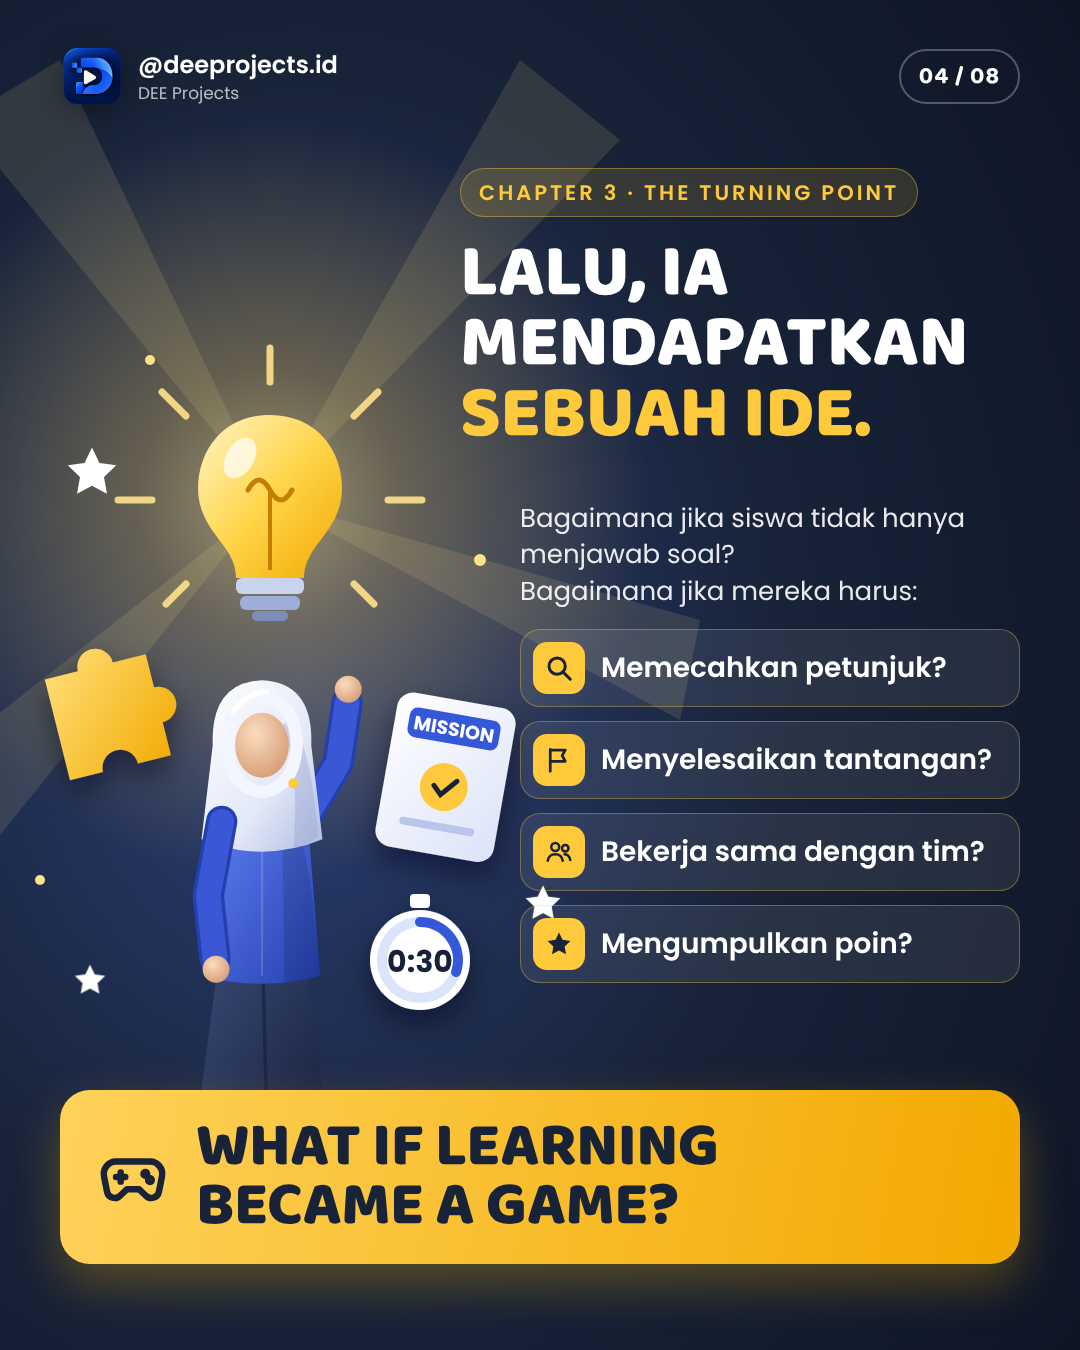
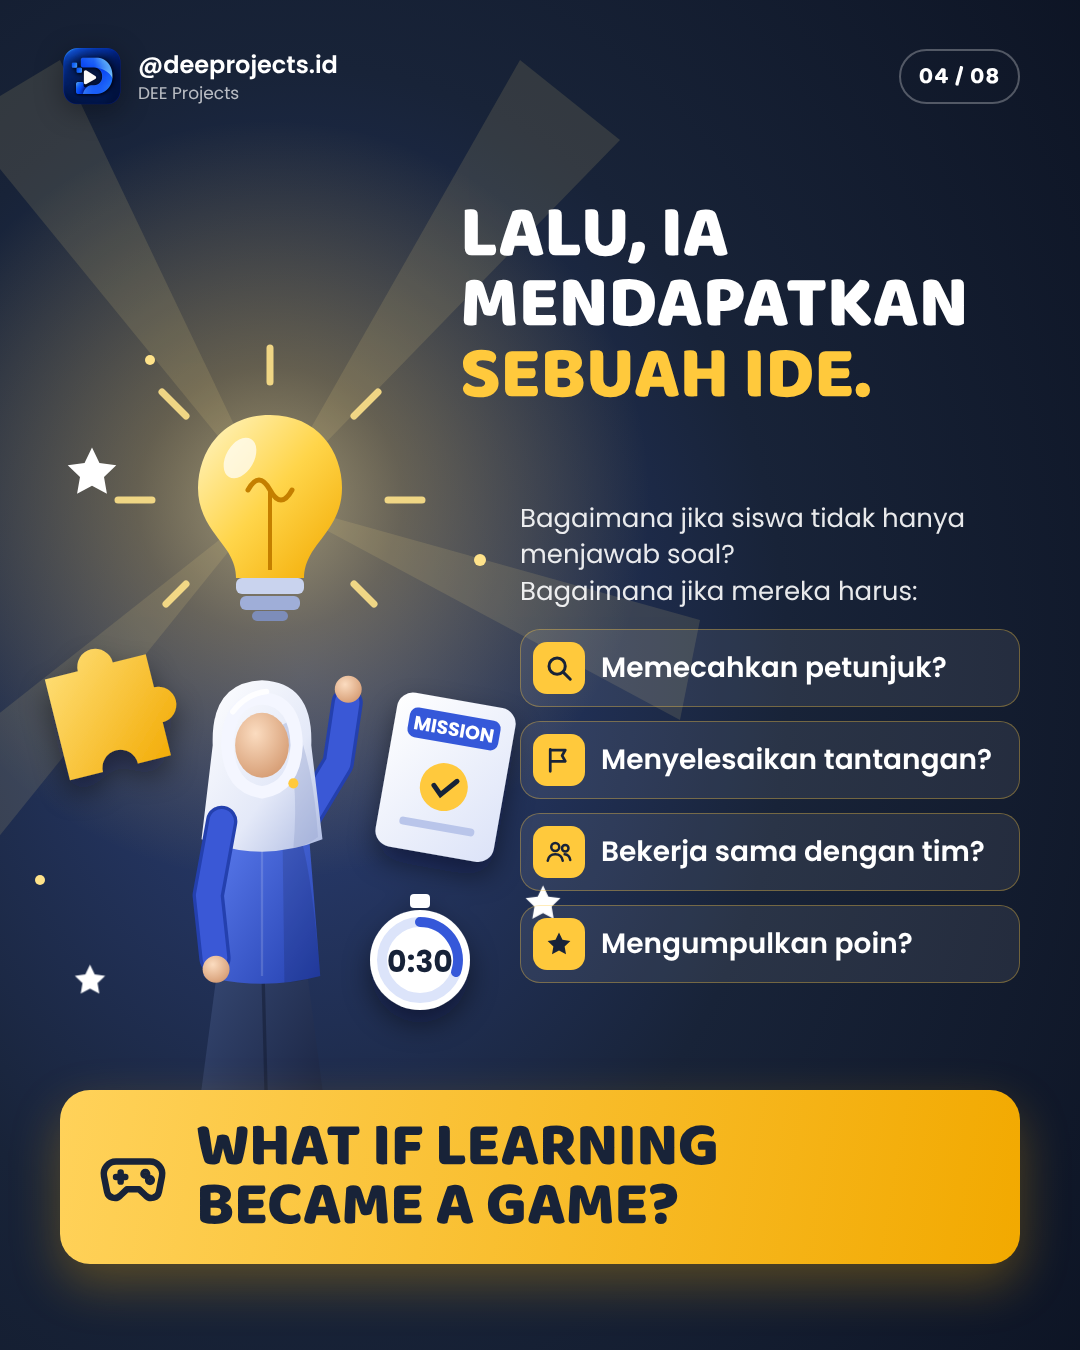
Remove chapter/kicker labels above slide headlines
Claude-Session: https://claude.ai/code/session_01NvhobE7w3mnUz6d6jf2Phj

Changed region(s): [[0.4278, 0.1244, 0.9167, 0.3422]]

diff --git a/content/post-03/carousel.html b/content/post-03/carousel.html
@@ -146,9 +146,8 @@
   </svg>
   <div class="layer">
     <div class="top"><div class="brand"><img src="logo.png"><div>@deeprojects.id<small>DEE Projects</small></div></div><div class="count">01 / 08</div></div>
-    <div style="position:absolute;top:168px;left:60px;right:60px">
-      <div class="kicker">✦ The Lesson That Became an Adventure</div>
-      <h1 style="font-size:92px;line-height:.95;margin-top:28px">HARI ITU, BU GURU<br>PUNYA <span class="y">SEBUAH IDE...</span></h1>
+    <div style="position:absolute;top:200px;left:60px;right:60px">
+      <h1 style="font-size:92px;line-height:.95;margin-top:0">HARI ITU, BU GURU<br>PUNYA <span class="y">SEBUAH IDE...</span></h1>
       <p style="font-size:33px;line-height:1.4;margin-top:24px;max-width:820px;opacity:.9">Bagaimana jika satu pelajaran biasa bisa menjadi sebuah <b class="y" style="font-weight:600">petualangan?</b></p>
     </div>
     <div class="bottom"><div class="tag">Creative Teaching Ideas</div><div class="swipe" style="background:var(--yellow);color:var(--navy)">Swipe to discover the story <svg width="26" height="26"><use href="#i-arrow"/></svg></div></div>
@@ -199,9 +198,8 @@
   </svg>
   <div class="layer">
     <div class="top"><div class="brand"><img src="logo.png"><div>@deeprojects.id<small>DEE Projects</small></div></div><div class="count">02 / 08</div></div>
-    <div style="position:absolute;top:168px;left:60px;width:700px">
-      <div class="kicker">Chapter 1 · The Ordinary Lesson</div>
-      <h1 style="font-size:96px;line-height:.95;margin-top:24px;color:var(--navy)">SEMUA SUDAH<br><span class="b">DIPERSIAPKAN.</span></h1>
+    <div style="position:absolute;top:200px;left:60px;width:700px">
+      <h1 style="font-size:96px;line-height:.95;margin-top:0;color:var(--navy)">SEMUA SUDAH<br><span class="b">DIPERSIAPKAN.</span></h1>
     </div>
     <div style="position:absolute;top:470px;left:60px;width:560px;display:flex;flex-direction:column;gap:18px">
       <div class="chk"><span><svg width="28" height="28"><use href="#i-check"/></svg></span>Materi sudah disusun.</div>
@@ -239,9 +237,8 @@
   </svg>
   <div class="layer">
     <div class="top"><div class="brand"><img src="logo.png"><div>@deeprojects.id<small>DEE Projects</small></div></div><div class="count">03 / 08</div></div>
-    <div style="position:absolute;top:168px;left:60px;right:60px">
-      <div class="kicker" style="background:rgba(255,255,255,.08);color:#C9D3EE;border-color:rgba(255,255,255,.2)">Chapter 2 · The Problem</div>
-      <h1 style="font-size:100px;line-height:.95;margin-top:24px">TAPI, ADA YANG<br><span style="color:#9FB2EE">KURANG...</span></h1>
+    <div style="position:absolute;top:200px;left:60px;right:60px">
+      <h1 style="font-size:100px;line-height:.95;margin-top:0">TAPI, ADA YANG<br><span style="color:#9FB2EE">KURANG...</span></h1>
     </div>
     <div style="position:absolute;top:468px;left:60px;width:620px;display:flex;flex-direction:column;gap:14px">
       <div class="obs"><svg width="30" height="30"><use href="#i-hourglass"/></svg>Beberapa siswa hanya menunggu pertanyaan berikutnya.</div>
@@ -295,9 +292,8 @@
   </svg>
   <div class="layer">
     <div class="top"><div class="brand"><img src="logo.png"><div>@deeprojects.id<small>DEE Projects</small></div></div><div class="count">04 / 08</div></div>
-    <div style="position:absolute;top:168px;right:60px;width:560px;text-align:left">
-      <div class="kicker">Chapter 3 · The Turning Point</div>
-      <h1 style="font-size:74px;line-height:.95;margin-top:22px">LALU, IA<br>MENDAPATKAN<br><span class="y">SEBUAH IDE.</span></h1>
+    <div style="position:absolute;top:200px;right:60px;width:560px;text-align:left">
+      <h1 style="font-size:74px;line-height:.95;margin-top:0">LALU, IA<br>MENDAPATKAN<br><span class="y">SEBUAH IDE.</span></h1>
     </div>
     <div style="position:absolute;top:500px;right:60px;width:500px">
       <p style="font-size:26px;line-height:1.4;opacity:.9">Bagaimana jika siswa tidak hanya menjawab soal?<br>Bagaimana jika mereka harus:</p>
@@ -477,9 +473,8 @@
   </svg>
   <div class="layer">
     <div class="top"><div class="brand"><img src="logo.png"><div>@deeprojects.id<small>DEE Projects</small></div></div><div class="count">07 / 08</div></div>
-    <div style="position:absolute;top:166px;left:60px;right:60px">
-      <div class="kicker">The Lesson Behind the Story</div>
-      <h1 style="font-size:78px;line-height:.98;margin-top:22px;color:var(--navy)">TERKADANG, KITA TIDAK PERLU <span class="b">MENGUBAH MATERINYA.</span></h1>
+    <div style="position:absolute;top:200px;left:60px;right:60px">
+      <h1 style="font-size:78px;line-height:.98;margin-top:0;color:var(--navy)">TERKADANG, KITA TIDAK PERLU <span class="b">MENGUBAH MATERINYA.</span></h1>
       <p style="font-size:29px;margin-top:18px;line-height:1.4;color:#3B4866">Kita hanya perlu menemukan <b style="color:var(--blue)">cara baru</b> untuk menghadirkannya.</p>
     </div>
     <p style="position:absolute;top:572px;left:0;right:0;text-align:center;font-size:23px;color:#5A6685">Satu tujuan pembelajaran → banyak pengalaman:</p>
